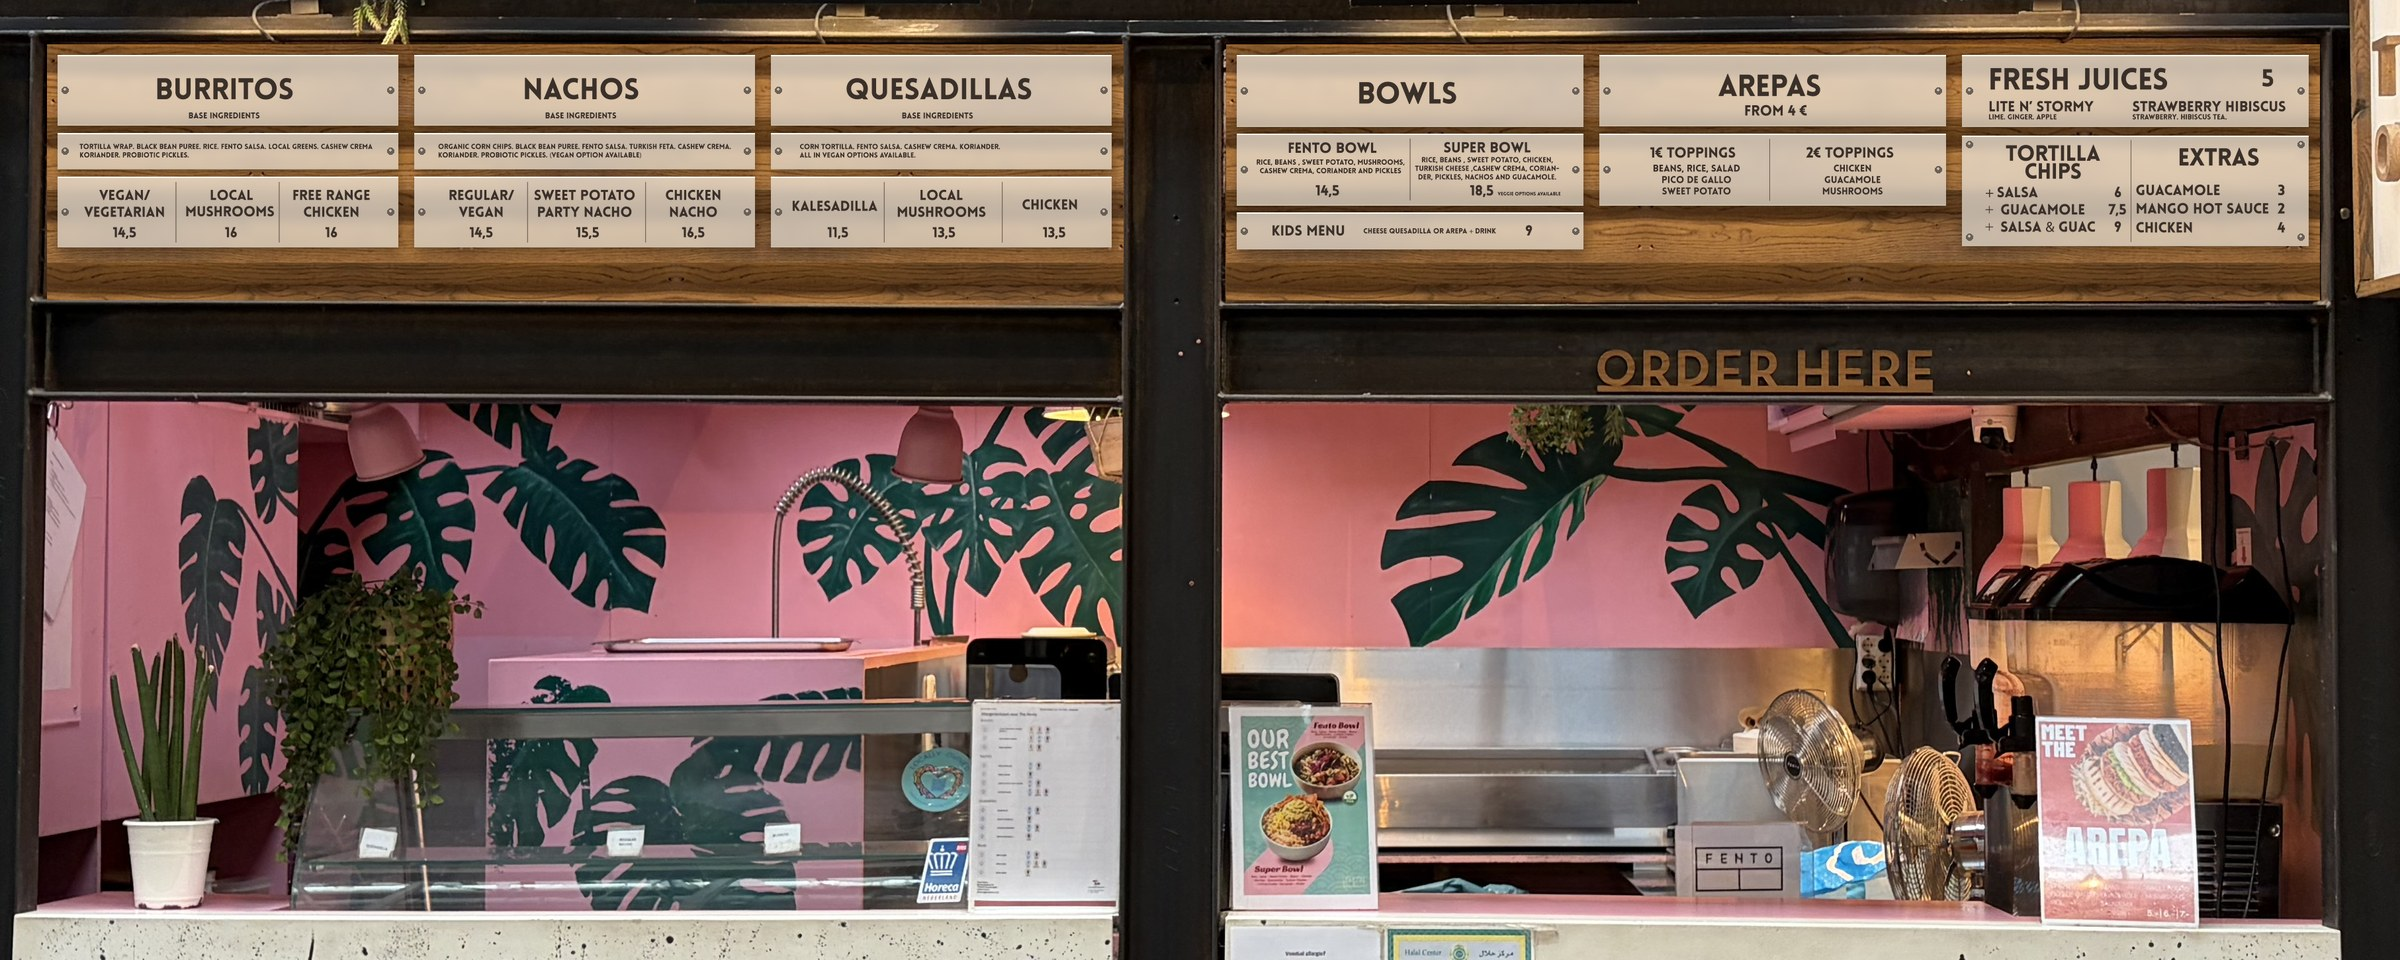
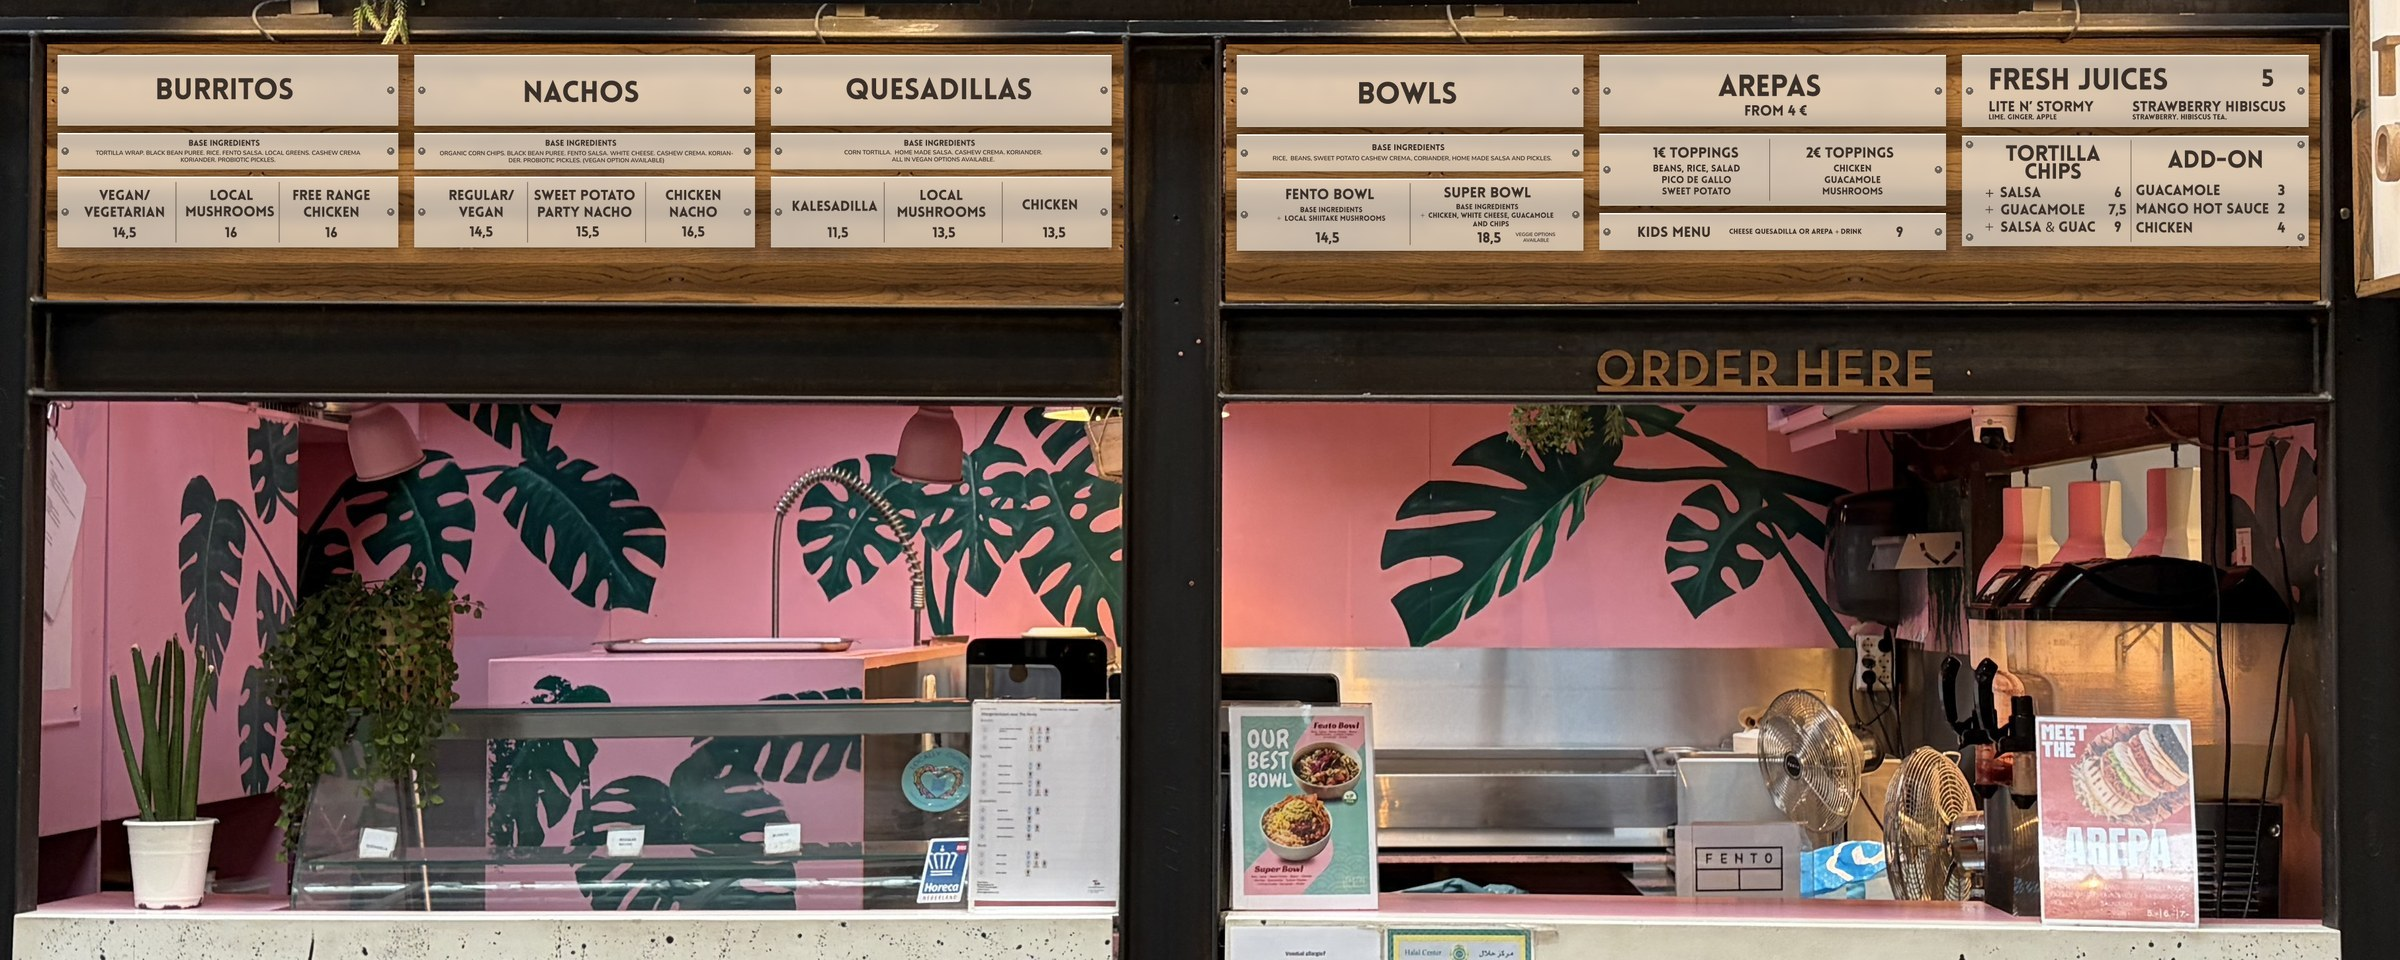
Update menu boards to 29/10 artwork

diff --git a/index.html b/index.html
@@ -53,7 +53,7 @@
   <div class="tag l">Today</div><div class="tag r">New</div>
 </div>
 
-<footer>Draft mockup: tiles on the back wall only, about 10–13 cm. Side wall and pink counter cabinet stay as they are. Frosted acrylic plates, spaced as in the artwork files.</footer>
+<footer>Menu artwork of 29/10. Draft mockup: tiles on the back wall only, about 10–13 cm. Side wall and pink counter cabinet stay as they are. Frosted acrylic plates, spaced as in the artwork files.</footer>
 
 <script>
   const st = { view:'', wall:'green' };
